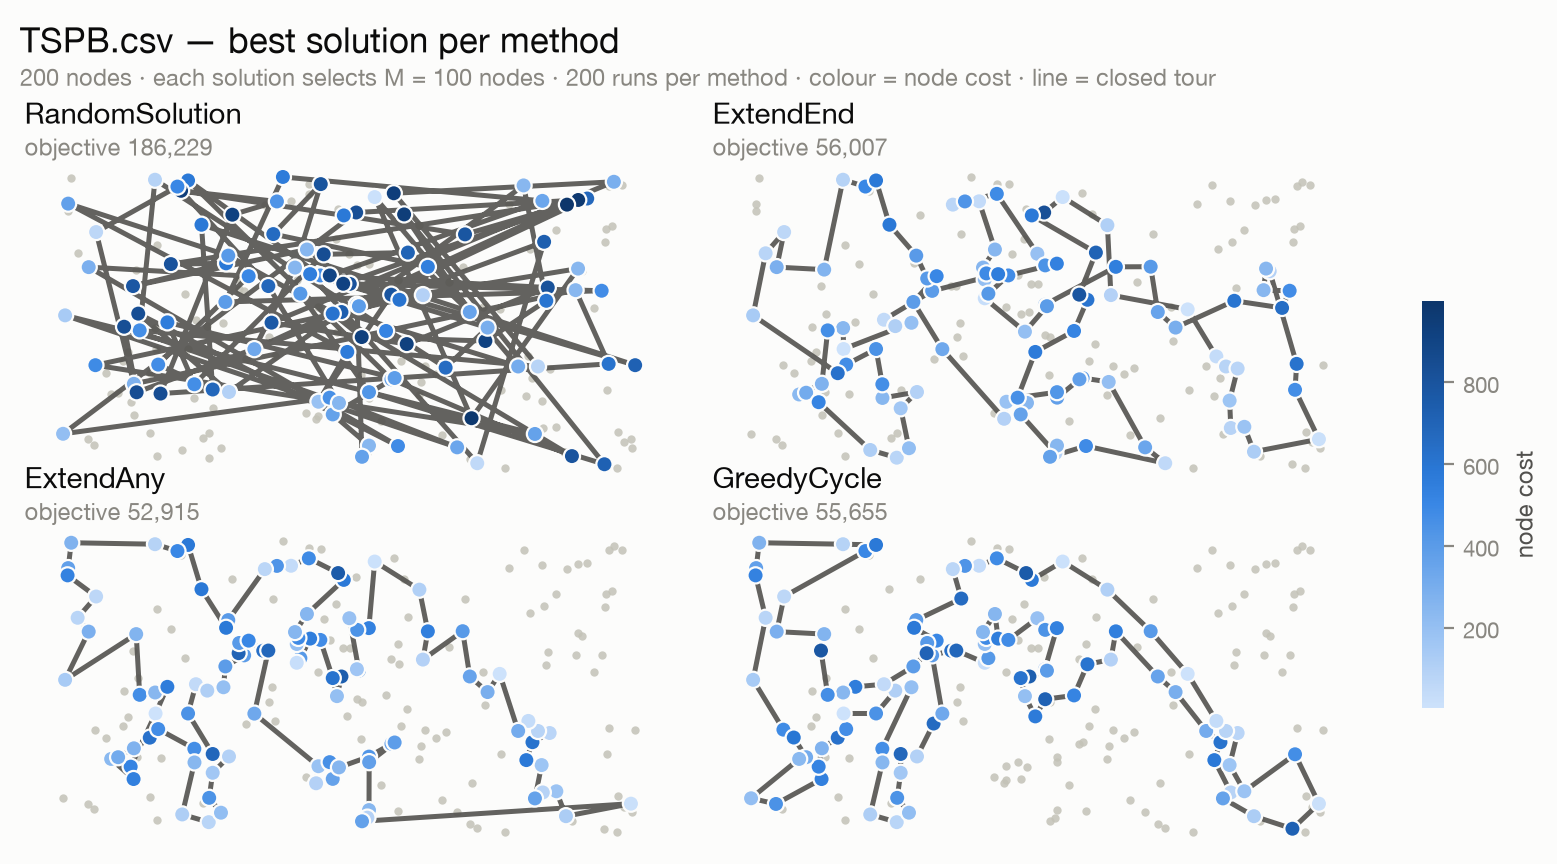
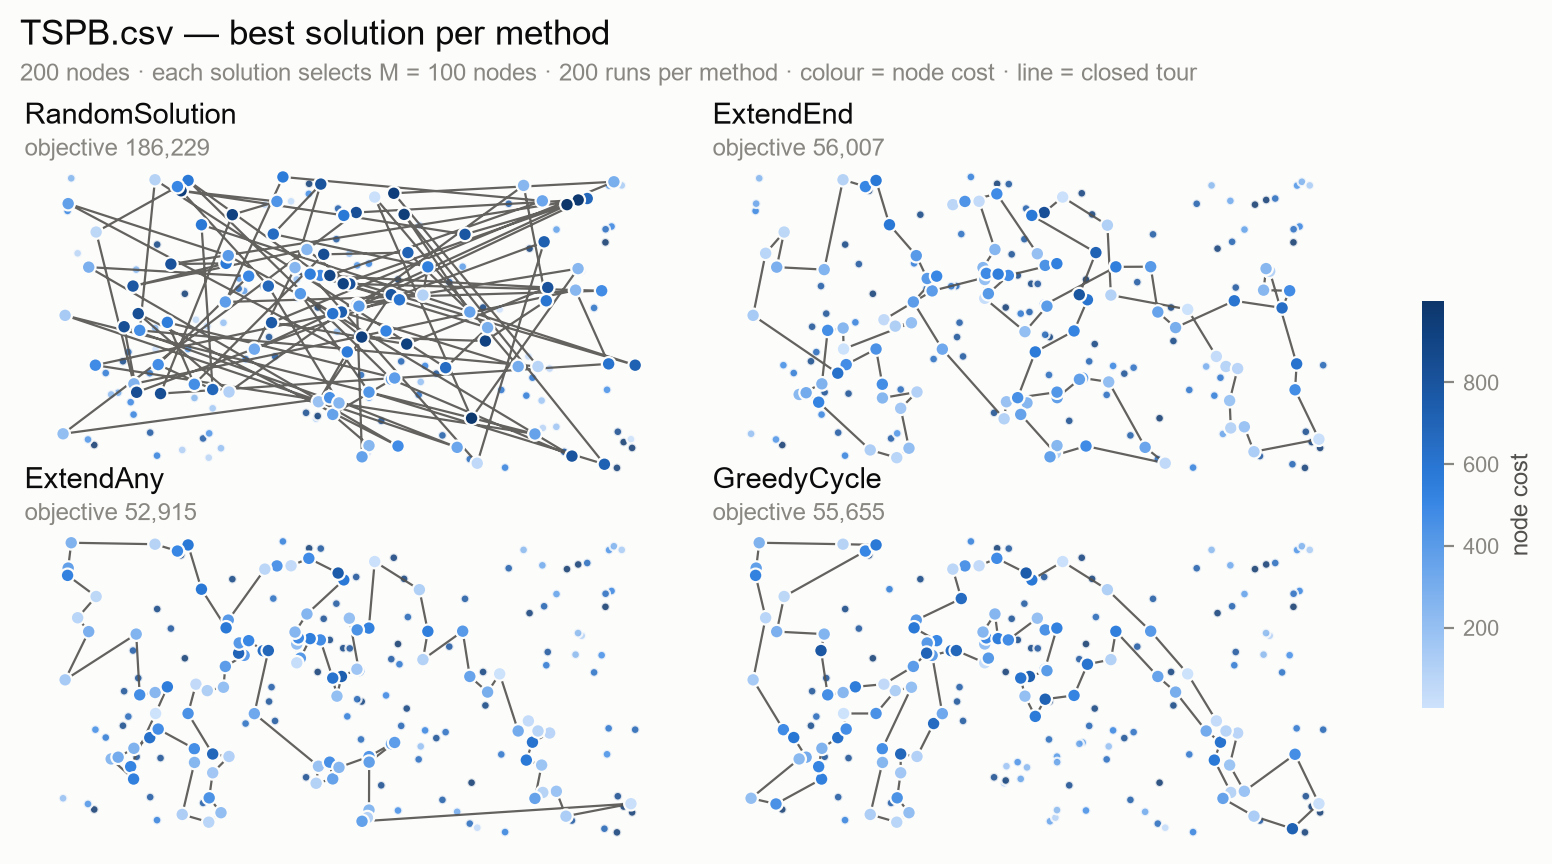
Update graphs and report

diff --git a/tools/oeviz.py b/tools/oeviz.py
@@ -245,9 +245,9 @@ def _draw_instance(
     tour: Sequence[int] | None,
     norm: Normalize,
     *,
-    idle_size: float = 9.0,
-    node_size: float = 34.0,
-    line_width: float = 1.8,
+    idle_size: float = 10.0,
+    node_size: float = 24.0,
+    line_width: float = 0.8,
 ) -> None:
     """Draw one instance, optionally with a solution on top of it.
 
@@ -257,7 +257,8 @@ def _draw_instance(
     """
     ax.scatter(
         inst.xs, inst.ys,
-        s=idle_size, c=AXIS, linewidths=0, alpha=0.85, zorder=1,
+        s=idle_size, c=inst.costs, cmap=COST_CMAP, norm=norm,
+        edgecolors=SURFACE, linewidths=0.8, alpha=0.85, zorder=1,
     )
 
     if tour is None or len(tour) == 0:

diff --git a/REPORT.md b/REPORT.md
@@ -1,6 +1,7 @@
 # Task 1 — Greedy heuristics
 
 **Code revision:** `850d45b` (branch `report1`)
+**Source code link**: [GitHub](https://github.com/AER00/evolutionary_computation_pp)
 **Instances:** `TSPA.csv`, `TSPB.csv` — 200 nodes each
 **Methods:** random, nearest neighbour (add at the end), nearest neighbour (add anywhere),
 greedy cycle
@@ -341,16 +342,7 @@ file and a list of node indices — so it can be reused for the later tasks.
    on TSPA by about 15% (87,477 down to 73,793). Any later improvement, like local search or
    2-opt, should start from these constructions, because they are cheap and already close to
    each other.
-
-## 8. Limitations
-
-* `-repeat` is tied to the starting node: run `r` starts from node `r`, and the greedy methods
-  use `path[0] = iteration` without a modulo. So `-repeat 201` on a 200-node instance crashes
-  with `index out of range`. The default `-repeat 200` is fine and is what produced this report,
-  but this should be fixed before `-repeat` is changed.
-* `ExtendEnd` and `ExtendAny` build an open path while the objective scores a closed tour, so
-  their step-by-step choices are not perfectly aligned with what is being minimised. This
-  matches the wording of the task, and `GreedyCycle` is the version that is consistent with the
-  objective, but it is worth deciding on purpose which of them the task intends.
-* The figures are drawn by the Python tools from the same CSV files. They agree with the solver
-  because both read the same instance data, not because they share code.
+7. **Strategy dominance depends on the instance.** On TSPA `GreedyCycle` is the best, on TSPB `ExtendAny` is the best.
+   The two instances are similar in size and structure, but they differ enough that the same
+   method does not dominate both of them. This is a reminder that no single heuristic is always
+   the best. This is also visible on `ExtendEnd` which, on average, works terrible on TSPA but is comparable to the other two on TSPB.
